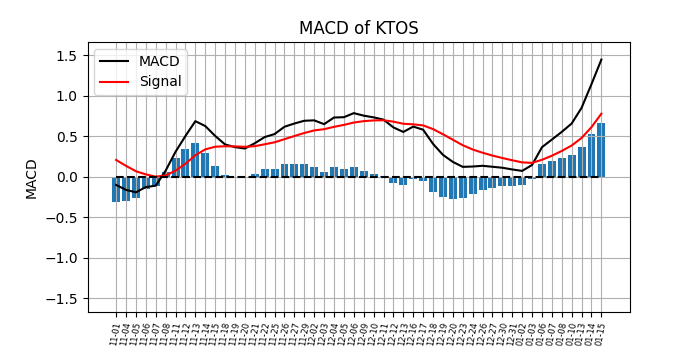
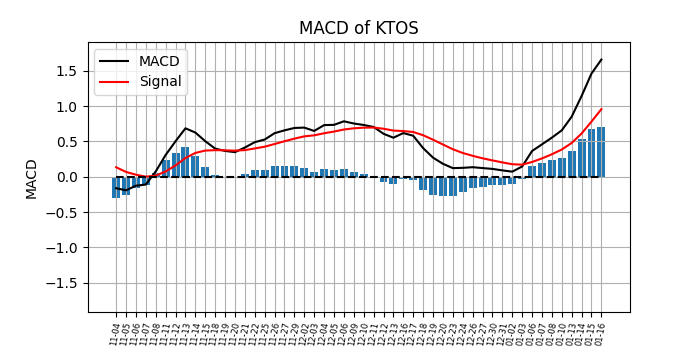
commit for 2025-01-17

diff --git a/_posts/2025-01-17-KTOS.md b/_posts/2025-01-17-KTOS.md
@@ -1,9 +1,9 @@
 ---
 layout: post
-title: "SENS"
-company: Sensionics Inc.
-date: 2025-01-16 -0500
-categories: tech
+title: "KTOS"
+company: Kratos Defense & Security Solutions Inc.
+date: 2025-01-17 -0500
+categories: defense
 ---
 
 ### Most up to date figures for {{page.company}} ({{ page.title }}).
@@ -18,4 +18,4 @@ Buy/short:
 
 
 ### Thoughts
-(1/14) - **Short**. RSI indicates overbought and SMA is diverging from price (or vice versa). MACD shows similar trend to what it did 12-27. I think the price is hitting a top and will topple over. Short Short Short, till RSI evens out.
+(1/14) - **Short**. RSI indicates definitely overbought. But may have to wait for one or two days for correct timing.

diff --git a/_posts/2025-01-17-SENS.md b/_posts/2025-01-17-SENS.md
@@ -1,9 +1,9 @@
 ---
 layout: post
-title: "KTOS"
-company: Kratos Defense & Security Solutions Inc.
-date: 2025-01-16 -0500
-categories: defense
+title: "SENS"
+company: Sensionics Inc.
+date: 2025-01-17 -0500
+categories: tech
 ---
 
 ### Most up to date figures for {{page.company}} ({{ page.title }}).
@@ -18,4 +18,4 @@ Buy/short:
 
 
 ### Thoughts
-(1/14) - **Short**. RSI indicates definitely overbought. But may have to wait for one or two days for correct timing.
+(1/14) - **Short**. RSI indicates overbought and SMA is diverging from price (or vice versa). MACD shows similar trend to what it did 12-27. I think the price is hitting a top and will topple over. Short Short Short, till RSI evens out.

diff --git a/_posts/2025-01-17-GH.md b/_posts/2025-01-17-GH.md
@@ -1,9 +1,9 @@
 ---
 layout: post
-title: "LYFT"
-company: Lyft Inc.
-date: 2025-01-16 -0500
-categories: consumer
+title: "GH"
+company: Guardiant Health
+date: 2025-01-17 -0500
+categories: biotech
 ---
 
 ### Most up to date figures for {{page.company}} ({{ page.title }}).

diff --git a/_posts/2025-01-17-LYFT.md b/_posts/2025-01-17-LYFT.md
@@ -1,9 +1,9 @@
 ---
 layout: post
-title: "GH"
-company: Guardiant Health
-date: 2025-01-16 -0500
-categories: biotech
+title: "LYFT"
+company: Lyft Inc.
+date: 2025-01-17 -0500
+categories: consumer
 ---
 
 ### Most up to date figures for {{page.company}} ({{ page.title }}).

diff --git a/_posts/2025-01-17-VRTX.md b/_posts/2025-01-17-VRTX.md
@@ -2,7 +2,7 @@
 layout: post
 title: "VRTX"
 company: Vertex Pharma Inc.
-date: 2025-01-16 -0500
+date: 2025-01-17 -0500
 categories: biotech
 ---
 
